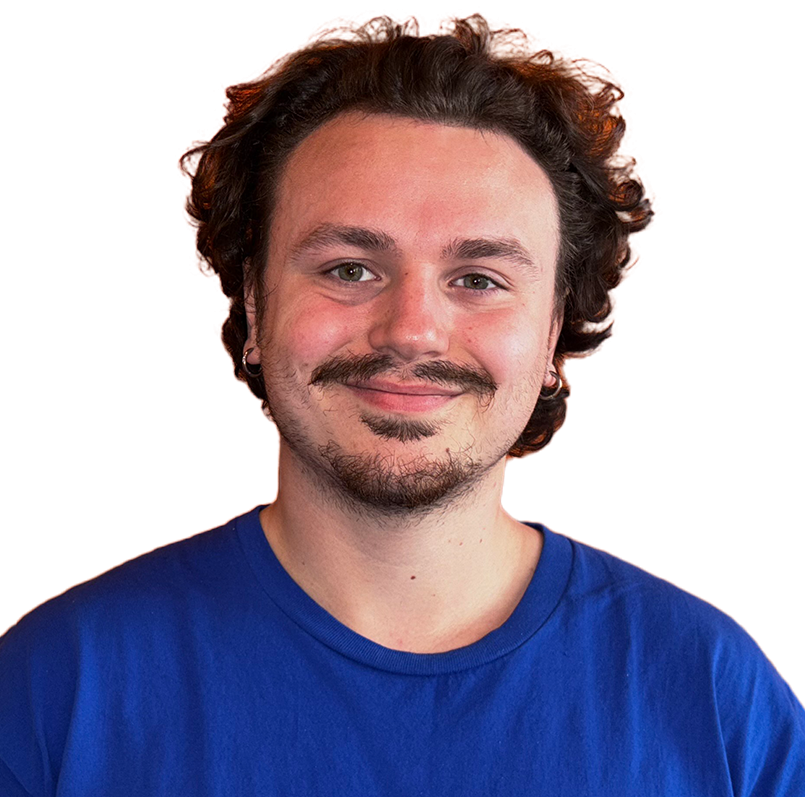
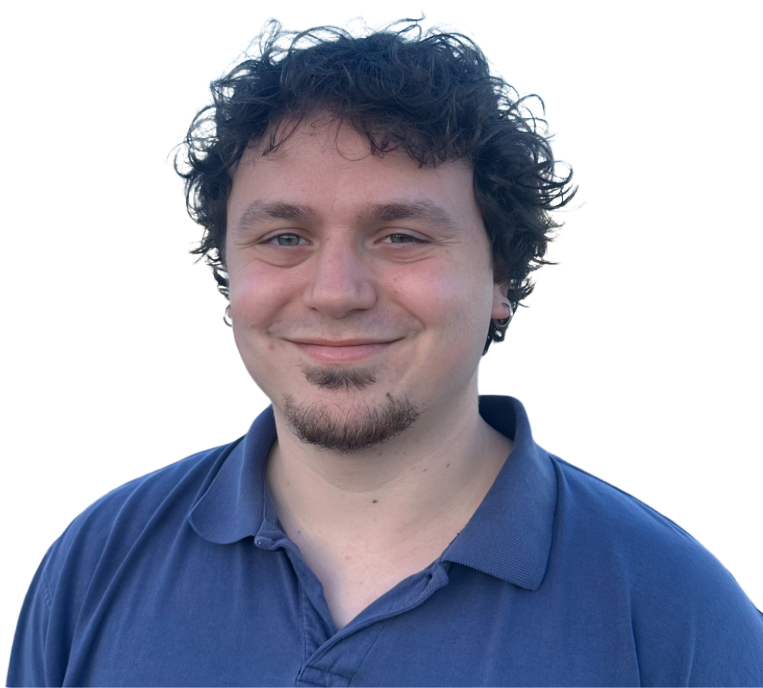
Updates

diff --git a/index.html b/index.html
@@ -5,8 +5,8 @@
     <link rel="icon" href="assets/ascii-art.png" />
     <meta name="viewport" content="width=device-width, initial-scale=1.0" />
     <title>2jordache4.github.io</title>
-    <script type="module" crossorigin src="./assets/index-CM9g22LD.js"></script>
-    <link rel="stylesheet" crossorigin href="./assets/index-BgaqphOz.css">
+    <script type="module" crossorigin src="./assets/index-DBwA_IWt.js"></script>
+    <link rel="stylesheet" crossorigin href="./assets/index-D3iyZo9O.css">
   </head>
   <body>
     <div id="root"></div>

diff --git a/assets/index-D3iyZo9O.css b/assets/index-D3iyZo9O.css
@@ -1,0 +1,1 @@
+@import"https://fonts.googleapis.com/css2?family=Montserrat:ital,wght@0,100..900;1,100..900&display=swap";@keyframes flicker{0%,to{opacity:1}92%{opacity:1}93%{opacity:.8}94%{opacity:1}}*{box-sizing:border-box;margin:0;padding:0}:root{--primary-color: #00FF26;--secondary-color: #30794099;--third-color: #00ff264b}[data-theme=green]{--primary-color: #00FF26;--secondary-color: #30794099;--third-color: #00ff264b}[data-theme=blue]{--primary-color: #0000ff;--secondary-color: #1c1c52a0;--third-color: #0000ff4b}[data-theme=orange]{--primary-color: #ffbb00;--secondary-color: #9e7f29ae;--third-color: #ffbb004b}[data-theme=white]{--primary-color: #ffffff;--secondary-color: #000000;--third-color: #7878784b}#root{width:100%;margin:0;padding:0;max-width:100%}body{background-color:#000;box-sizing:border-box;width:100%;min-height:100vh}body:after{content:"";position:fixed;inset:0;pointer-events:none;background:repeating-linear-gradient(to bottom,transparent 0px,transparent 2px,rgba(0,0,0,.15) 2px,rgba(0,0,0,.15) 4px);z-index:999}body:before{content:"";position:fixed;inset:0;pointer-events:none;background:radial-gradient(ellipse at center,#0000 65%,#362312)}.navbar{display:flex;align-items:center;justify-content:space-around;border-bottom:2px solid var(--primary-color)}.nav-item{text-decoration:none;color:var(--primary-color);font-size:3em}.nav-item span{position:relative;display:inline-block;padding-left:.7em;padding-right:.7em;text-shadow:2px 0 #00ff2699,-3px 0 var(--seconday-color)}.nav-item.active span{text-decoration:underline;text-decoration-thickness:2px;text-underline-offset:.25em;text-decoration-color:#000;background:linear-gradient(var(--primary-color) 0 0) left .55em / .05em .6em no-repeat,linear-gradient(var(--primary-color) 0 0) left .55em / .55em .05em no-repeat,linear-gradient(var(--primary-color) 0 0) right .55em / .05em .6em no-repeat,linear-gradient(var(--primary-color) 0 0) right .55em / .55em .05em no-repeat}.nav-item.active span:after{content:"";position:absolute;left:.05em;right:.05em;bottom:-2px;height:2px;background:#000;z-index:2}.sub-navbar{display:flex;align-items:center;justify-content:left;padding-top:2em;padding-left:4em}.sub-nav-item.active{text-decoration:none;color:#c8c8c8;font-size:1.5em}.sub-nav-item{text-decoration:none;color:#585858;font-size:1.5em;text-shadow:1px 0 #93080899,-2px 0 var(--seconday-color);padding-right:.25em}.footer{position:fixed;bottom:0;left:1;width:100%;padding:.75rem 1rem;align-items:center;display:flex;justify-content:space-between;color:var(--primary-color);border-top:2px solid var(--primary-color);background:var(--secondary-color);z-index:100}.level-item{color:var(--primary-color);padding-right:10em;font-size:1.5em;text-shadow:2px 0 #00ff2699,-3px 0 var(--seconday-color)}.level-item:after{content:"";position:absolute;top:50%;width:16em;height:.7em;right:16em;border:var(--third-color) solid 1px;transform:translateY(-50%);background:linear-gradient(var(--primary-color) 0 0) left / 5em 55em no-repeat}.dob-item{color:var(--primary-color);padding-left:1em;font-size:1.5em;border-left:3px solid var(--third-color);text-shadow:2px 0 #00ff2699,-3px 0 var(--seconday-color)}.edu-item{color:var(--primary-color);padding-right:1em;font-size:1.5em;border-right:3px solid var(--third-color);text-shadow:2px 0 #00ff2699,-3px 0 var(--seconday-color)}.ascii{display:block;padding-top:2em;margin-left:auto;margin-right:auto;width:30%}.my-name{font-size:2.5em;color:var(--primary-color);position:relative;text-shadow:2px 0 #00ff2699,-3px 0 var(--seconday-color)}.rob-eng{font-size:2em;color:var(--third-color);position:relative;text-shadow:2px 0 #00ff2699,-3px 0 var(--seconday-color)}.my-name-div{display:flex;flex-direction:column;justify-content:center;align-items:center;width:100%;text-align:center;padding-top:2em}.body-div{display:flex;flex-direction:row;height:78vh}.sparc-words{display:flex;font-size:1.5em;flex-direction:column;padding-left:2em;padding-top:2em;height:95%;width:50%;justify-content:flex-start;overflow-y:auto;overflow-x:hidden}.sparc-item{display:flex;flex-direction:row;color:var(--primary-color);font-size:2.75em;padding-bottom:.25em}.sparc-item.active span{background:var(--seconday-color);border:.5px solid var(--primary-color);background-size:100%;width:100%;max-width:100%}.sparc-desc-image{display:flex;flex-direction:column;padding-top:2em;height:100%;width:50%;justify-content:flex-start;align-items:center;overflow-y:auto;overflow-x:hidden}.sparc-desc{font-size:2em;color:var(--primary-color);padding-top:1em;padding-left:.5em;padding-right:.2em}.sparc-image{display:block;margin-left:auto;margin-right:auto;width:45%;animation:spinHorizontal 6s linear infinite;transform-style:preserve-3d}.edu-image{display:block;border:solid 2px var(--primary-color);margin-left:auto;margin-right:auto;width:45%;z-index:1000}.proj-image{display:block;padding-top:2em;margin-left:auto;margin-right:auto;width:60%;z-index:1000}@keyframes spinHorizontal{0%{transform:rotateY(0)}to{transform:rotateY(360deg)}}.sparc-level{display:flex;flex-direction:row;justify-content:space-between;width:100%}.about-body:after{content:"";display:block;clear:both}.about-paragraph{font-size:1.75em;color:var(--primary-color);letter-spacing:2px;line-height:1.25;padding-left:1.5em;padding-right:1.5em;align-content:center}.pfp{float:left;padding-top:1em;padding-left:2em;width:25%}.view-right{display:flex;flex-direction:column;justify-content:space-evenly;font-size:2em;color:var(--primary-color)}.view-click{font-size:2em;color:var(--primary-color);justify-self:center}